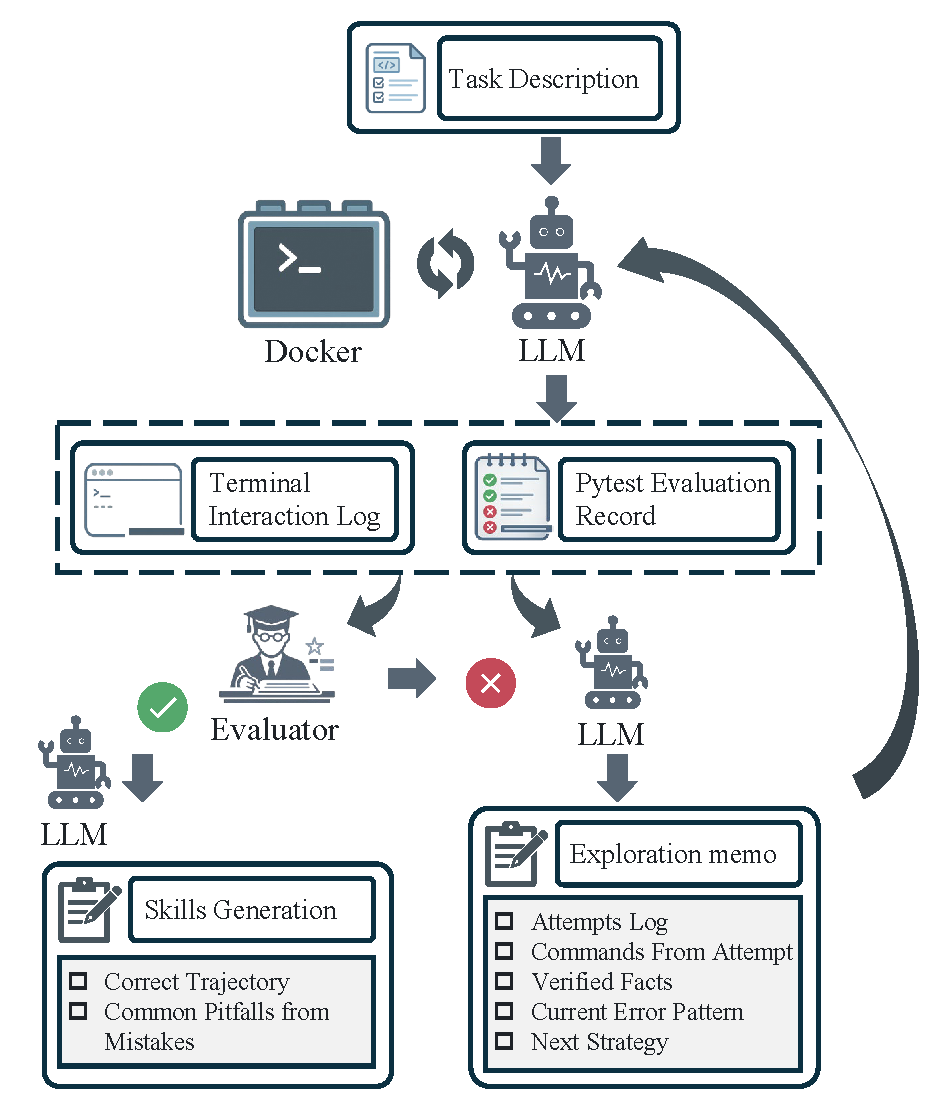
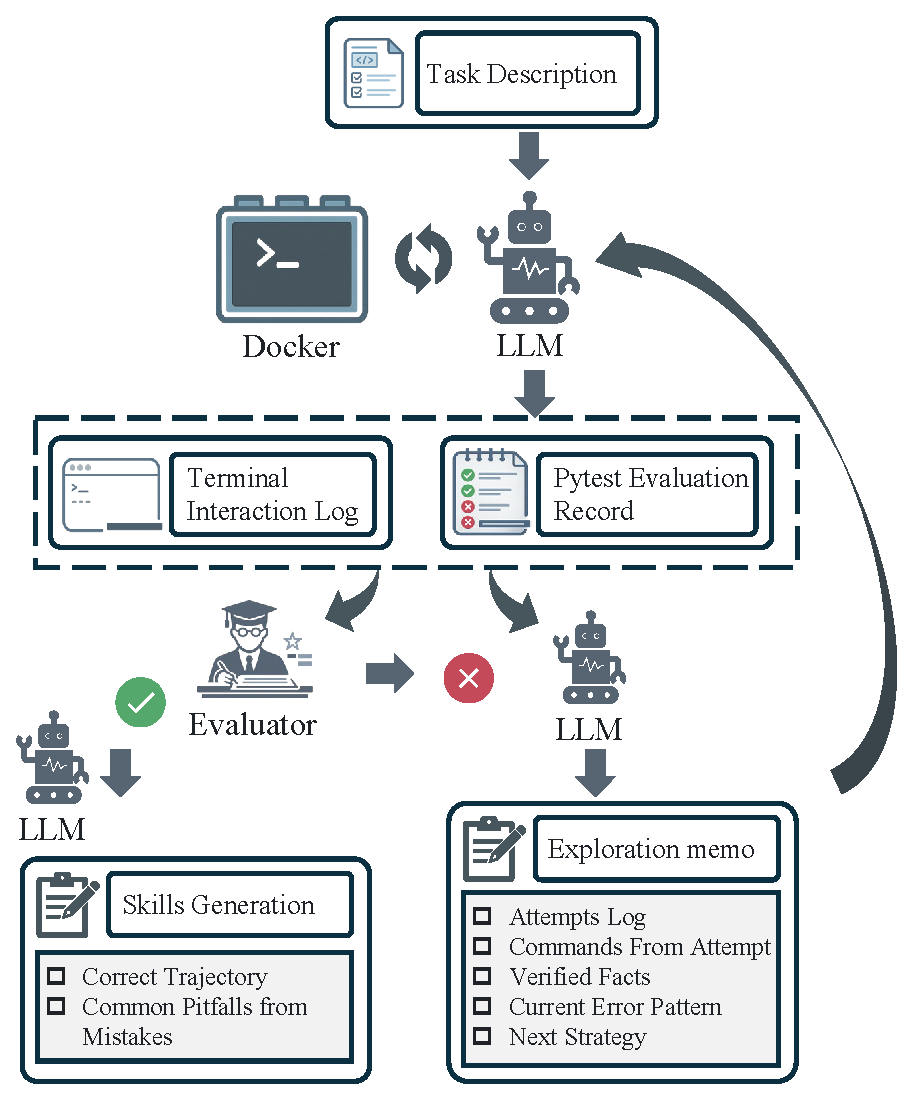
README: promote Demo and Case studies, tighten pipeline_overview padding
- Move ## Demo and ## Case studies to right after Highlights so the
  animations appear above the fold
- Crop whitespace out of figure/pipeline_overview.png (2000x1125 -> 1602x534)
- Minor crop on figure/skills_gen_pipeline.png

diff --git a/README.md b/README.md
@@ -48,6 +48,43 @@ At the centre sits the **Posterior Distillation Index (PDI)** — a trajectory-l
 
 ---
 
+## Demo
+
+<p align="center">
+  <img src="figure/spark_demo.gif" alt="SPARK skill-generation demo" width="820"/>
+</p>
+
+---
+
+## Case studies
+
+Two short animations, regenerated directly from the logged trajectories, illustrate when PDI matters most.
+
+### Case 1 · lean4-proof — Non-PDI skill vs PDI-refined skill
+
+Held-out student (Claude Haiku 4.5): 15 trial-and-error commands with repeated failures under the non-PDI skill, then 5 clean commands reaching `reward = 1.0` on the first `lake env lean -DwarningAsError=true` compile once the PDI-refined skill is in place.
+
+<p align="center">
+  <img src="figure/case1_lean4_before_after.gif" alt="Case 1: lean4-proof before vs after" width="880"/>
+</p>
+
+### Case 2 · Online PDI intervention — w/ PDI vs observe-only
+
+Four signals per panel (`phi_exec`, `phi_plan`, `phi_oss`, warmup-weighted proxy PDI) replayed step by step for two tasks. Orange circles mark soft interventions, red circles mark strong interventions. PDI-enabled runs recover into the positive region; observe-only controls remain stuck below zero.
+
+<p align="center">
+  <img src="figure/exploration_dynamics_pdi_two_tasks.gif" alt="Case 2: online PDI intervention dynamics" width="880"/>
+</p>
+
+Both animations are produced by small standalone scripts:
+
+```bash
+python scripts/make_case1_lean4_gif.py
+python scripts/make_exploration_dynamics_gif.py
+```
+
+---
+
 ## How it works
 
 The skill-generation loop is `execute → judge → reflect → retry → distill`:
@@ -174,43 +211,6 @@ After a typical run you will find:
 - Harbor execution outputs — `spark-jobs/`
 - distilled skills and attempt logs — `spark_skills_gen/skills_gen_result/<model>/<task>/`
 - evaluation summaries — `spark_skills_gen/skills_eval_result/<model>/<run-id>/`
-
----
-
-## Demo
-
-<p align="center">
-  <img src="figure/spark_demo.gif" alt="SPARK skill-generation demo" width="820"/>
-</p>
-
----
-
-## Case studies
-
-Two short animations, regenerated directly from the logged trajectories, illustrate when PDI matters most.
-
-### Case 1 · lean4-proof — Non-PDI skill vs PDI-refined skill
-
-Held-out student (Claude Haiku 4.5): 15 trial-and-error commands with repeated failures under the non-PDI skill, then 5 clean commands reaching `reward = 1.0` on the first `lake env lean -DwarningAsError=true` compile once the PDI-refined skill is in place.
-
-<p align="center">
-  <img src="figure/case1_lean4_before_after.gif" alt="Case 1: lean4-proof before vs after" width="880"/>
-</p>
-
-### Case 2 · Online PDI intervention — w/ PDI vs observe-only
-
-Four signals per panel (`phi_exec`, `phi_plan`, `phi_oss`, warmup-weighted proxy PDI) replayed step by step for two tasks. Orange circles mark soft interventions, red circles mark strong interventions. PDI-enabled runs recover into the positive region; observe-only controls remain stuck below zero.
-
-<p align="center">
-  <img src="figure/exploration_dynamics_pdi_two_tasks.gif" alt="Case 2: online PDI intervention dynamics" width="880"/>
-</p>
-
-Both animations are produced by small standalone scripts:
-
-```bash
-python scripts/make_case1_lean4_gif.py
-python scripts/make_exploration_dynamics_gif.py
-```
 
 ---
 